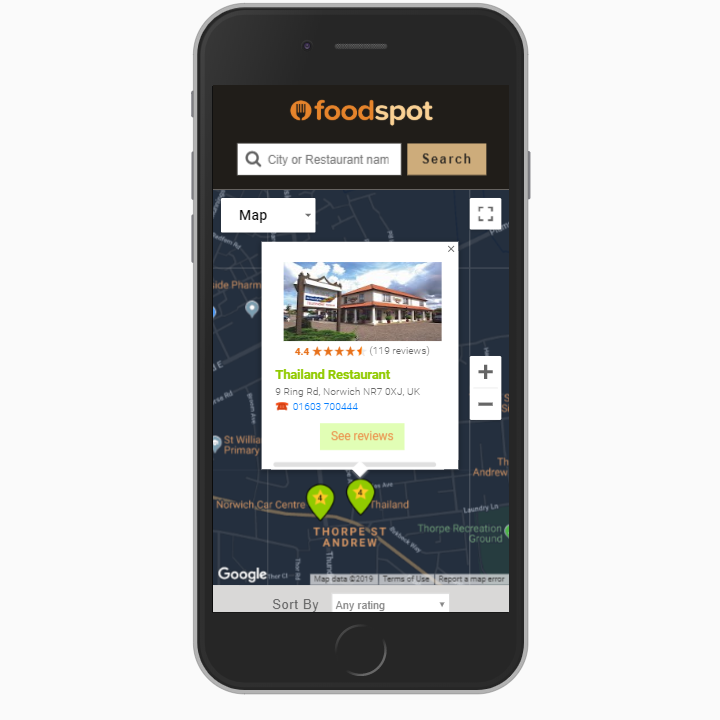
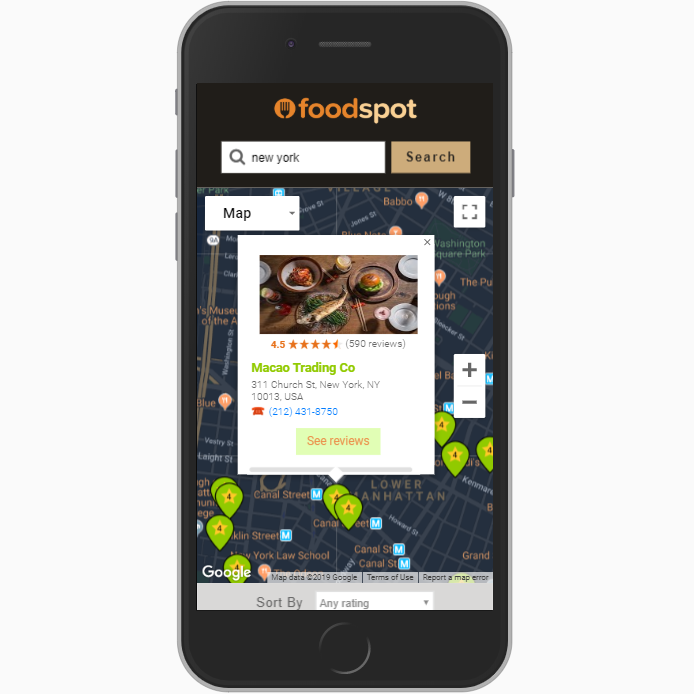
List elems by user selection; improve display of search results

Changed region(s): [[0.2421, 0.0, 0.7565, 0.9986]]

diff --git a/js/app.js b/js/app.js
@@ -335,9 +335,9 @@ function rest_popup(rPhoto, getRating, xxxxxStars, getRatingsTotal, rName, rAddr
 }
 /** restaurant list element
 *****************************************************/  
-function rest_liElem(rRestIndex, rPhoto, rName, getRating, xxxxxStars, getRatingsTotal, distanceInMiles) {
+function rest_liElem(rRestIndex, rPhoto, rName, getRating, xxxxxStars, getRatingsTotal, distanceInMiles, displayLi) {
   return `
-  <li id="${rRestIndex}" class="selection">
+  <li id="${rRestIndex}" class="selection" style="display:${displayLi};" data-avgrating="${getRating}">
     <a onclick="showPopup(${rRestIndex});" href="#header" class="liDirectChild marker-link" data-marker-id="${rRestIndex}" data-marker-title="${rName}">
       <div class="restaurant-pic-wrapper">${rPhoto}</div>
       <div class="restaurant-brief-wrapper">
@@ -623,7 +623,7 @@ function createMap(pos) {
     position: pos, 
     map: myMap, 
     icon: user_mrkrIcon, 
-    draggable: true,
+    draggable: false,
     animation: google.maps.Animation.BOUNCE 
   });
   setTimeout(function () {
@@ -652,9 +652,8 @@ function createMap(pos) {
   </div>`;
   document.getElementById('msg_display').innerHTML = loading_status;
   service.nearbySearch(request, getRestaurants); //Place Details Requests ->  service.getDetails(request, callback);
-  // Find Place from Query
   
-};//.getUserLocation()
+};//.createMap()
 
 // Google Place Photos service
 function get_iw_Photo(photos, icon) {
@@ -689,6 +688,32 @@ function get_LI_Photo(photos, icon) {
   }
 }
 
+/** Sort By: show restaurants by user selection
+*****************************************************/
+let showRated = [0, 1, 2, 3, 4, 5];
+
+function getSelect(selectEl) {
+  infowindows.forEach(infowindow => infowindow.close());
+  console.log(selectEl);
+  showRated = JSON.parse(selectEl.value);
+  for(let i = 0; i < markers.length; i++) {
+    if (showRated.indexOf(markers[i].restaurantRating) < 0) {
+      markers[i].setVisible(false);
+    } else {
+      markers[i].setVisible(true);
+    }
+  }
+  let restaurantLiEls = document.querySelectorAll(".restaurant-list li"); //returns collection
+  for (let j = 0; j < restaurantLiEls.length; j++) {
+    let avgRating = parseInt(restaurantLiEls[j].getAttribute("data-avgrating"));
+    if (showRated.indexOf(avgRating) < 0) {
+      restaurantLiEls[j].style.display = "none";
+    } else {
+      restaurantLiEls[j].style.display = "list-item"; //"list-item"
+    }
+  }
+}
+
 /** Factory function
 ************************************************************/
 function restPlace(name, address, telephone, website, lat, lng, rating, userRatingsTotal, reviews, icon, photos, priceLevel, restIndex, isOpen) {
@@ -718,24 +743,30 @@ function restPlace(name, address, telephone, website, lat, lng, rating, userRati
   const rAvg_mrkr = getMarker_No(rRating);
   const markerImg = 'images/' + rAvg_mrkr + 'star-marker.png';
   const xxxxxStars = getXstars(rRating);
+  const displayLi = showRated.indexOf(parseInt(getRating)) >= 0 ? "list-item" : "none";
   const rPopup = rest_popup(popup_IMG, getRating, xxxxxStars, getRatingsTotal, rName, rAddress, rTelephone, rRestIndex); 
-  const rListItem = rest_liElem(rRestIndex, list_IMG, rName, getRating, xxxxxStars, getRatingsTotal, distanceInMiles);
-  // const isItOpen = ;
+  const rListItem = rest_liElem(rRestIndex, list_IMG, rName, getRating, xxxxxStars, getRatingsTotal, distanceInMiles, displayLi);
   const rBrief = rest_dtls(rName, rIsRestOpen, getRating, xxxxxStars, getRatingsTotal, rAddress, rTelephone, rWebsite);
-  const infowindow = new google.maps.InfoWindow;
+  const rInfowindow = new google.maps.InfoWindow;
+  
   const marker = new google.maps.Marker({
     title: `${rName}`,
     position: {lat: rLat, lng: rLng},
     icon: markerImg,
     map: myMap
   });
+  marker.restaurantRating = parseInt(getRating);
+  if(showRated.indexOf(marker.restaurantRating) < 0) {
+    marker.setVisible(false);
+  }
   marker.addListener('click', function(e) {
     infowindows.forEach(infowindow => infowindow.close());
-    infowindow.setContent(rPopup); 
-    infowindow.open(myMap, marker);
-    myMap.setCenter({lat: rLat, lng: rLng});
+    rInfowindow.setContent(rPopup); 
+    rInfowindow.open(myMap, marker);
+    // myMap.setCenter({lat: rLat, lng: rLng});
   });
-  infowindows.push(infowindow);
+
+  infowindows.push(rInfowindow);
   markers.push(marker);
   // IEFE
   return {
@@ -827,7 +858,6 @@ let loopCounter = 0;
 function showRestaurantList() {
   document.getElementById('msg_display').style.display = 'none';
   console.log("All restaurants have been processed. Dumping restaurantsList below:");
-  // console.log(restaurantsList);
   for (let i = 0; i < restaurantsList.length; i++) {
     restaurantsList[i].list();
   }
@@ -1001,6 +1031,16 @@ function submitReview(rest_index) {
 /** Find Place from Query
 *****************************************************/
 function codeAddress() {
+  // hide any existing li elems
+  let restaurantLiEls = document.querySelectorAll(".restaurant-list li"); //returns collection
+  for (let j = 0; j < restaurantLiEls.length; j++) {
+    restaurantLiEls[j].style.display = "none";
+  }
+  // prepare global arrays for new values
+  restaurantsList = []; 
+  markers.length = 0;
+  loopCounter = 0;
+
   let userQuery = document.getElementById('ui-query').value;
   console.log(userQuery);
   let request = {
@@ -1021,17 +1061,11 @@ function codeAddress() {
           lat: lat,
           lng: lng
         };
-        // $('.restaurant-list').innerHTML = "";
         createMap(coords);
-        // let ul = document.querySelector('ul.restaurant-list');
-        
-        // let liElms = document.getElementsByClassName('selection');
-        // showRestaurantList();
       }
-      // myMap.setCenter(results[0].geometry.location);
     }
   });
-
+  console.log(restaurantsList);
 }
 
 // function geolocate() {

diff --git a/index.html b/index.html
@@ -40,7 +40,7 @@
       <!-- Logo -->
       <div class="row mb-display">
         <div id="logo_column">
-          <img style="width: 100%; height: 100%;" src="images/logo-01.png"/>
+          <img style="width: 100%; height: 100%;" src="images/logo-01.png" alt="logo" onclick="pageReload();"/>
         </div>
         <!-- User Input -->
         <div class="ui-column">
@@ -70,11 +70,17 @@
           <div id="restaurants-wrapper" class="col-xs-12 col-md-4">
             <div id="rattings-wrapper" class="ratings">
               <label for="rating-list" class="">Sort By</label>
-              <select name="rating-list" id="rating-list" onchange="getSelect()">
+              <!-- <select name="rating-list" id="rating-list" onchange="getSelect()">
                 <option value="any rating">Any rating</option>
                 <option value="5 stars">5 stars</option>
                 <option value="4 stars">4 stars</option>
                 <option value="1-3 stars">1-3 stars</option>
+              </select> -->
+              <select name="rating-list" id="rating-list" onchange="getSelect(this)">
+                <option selected value="[0,1,2,3,4,5]">Any rating</option>
+                <option value="[5]">5 stars</option>
+                <option value="[4]">4 stars</option>
+                <option value="[1,2,3]">1-3 stars</option>
               </select>
             </div>
             <div class="restaurants-list-wrapper">
@@ -123,6 +129,13 @@
     <footer id="footer">
       <h6>© <em><a href="https://aformoso.dev">2019 aformoso</em></a></h6>     
     </footer>
+
+    <script>
+      // Refresh the page
+      function pageReload() {
+        document.location.reload();
+      }
+    </script>
 
     <!-- jQuery CDN -->  
     <script src="https://code.jquery.com/jquery-3.4.1.js" integrity="sha256-WpOohJOqMqqyKL9FccASB9O0KwACQJpFTUBLTYOVvVU=" crossorigin="anonymous"></script>

diff --git a/css/main.css b/css/main.css
@@ -576,7 +576,7 @@ form input#close-review-btn:hover, form input#add-review-btn:hover {
   ul.restaurant-list li {
     display: flex;
     flex-direction: column;
-    margin-bottom: 30px;
+    /*margin-bottom: 30px;*/
     /*box-shadow: 0 0px 5px 0 rgba(0, 0, 0, 0.2), 0 6px 5px 0 rgba(0, 0, 0, 0.19);*/
     box-shadow: 5px 5px 5px 3px rgba(0, 0, 0, 0.1); /* [h offset] [v offset] [blur radius] [spread distance] [color] */
   }
@@ -606,17 +606,16 @@ form input#close-review-btn:hover, form input#add-review-btn:hover {
     height: 260px;
   }
   .swipe-wrapper {
-    /*border: 1px solid red;*/
     margin: 0 15px;
     padding: 0;
     display: flex;
     justify-content: center;
   }
   .icons-wrapper {
-    /*border: 1px solid orange;*/
     margin: 0;
     padding: 0;
     display: flex;
+    align-items: center;
   }
   .swipe-wrapper img {
     width: 100%;
@@ -901,4 +900,16 @@ h5.nr_heading {
 
 #iconIMGL {
   padding: 6px 0;
+}
+
+/*Progress Bar*/
+#myProgress {
+  width: 100%;
+  background-color: grey;
+}
+
+#myBar {
+  width: 1%;
+  height: 30px;
+  background-color: green;
 }
